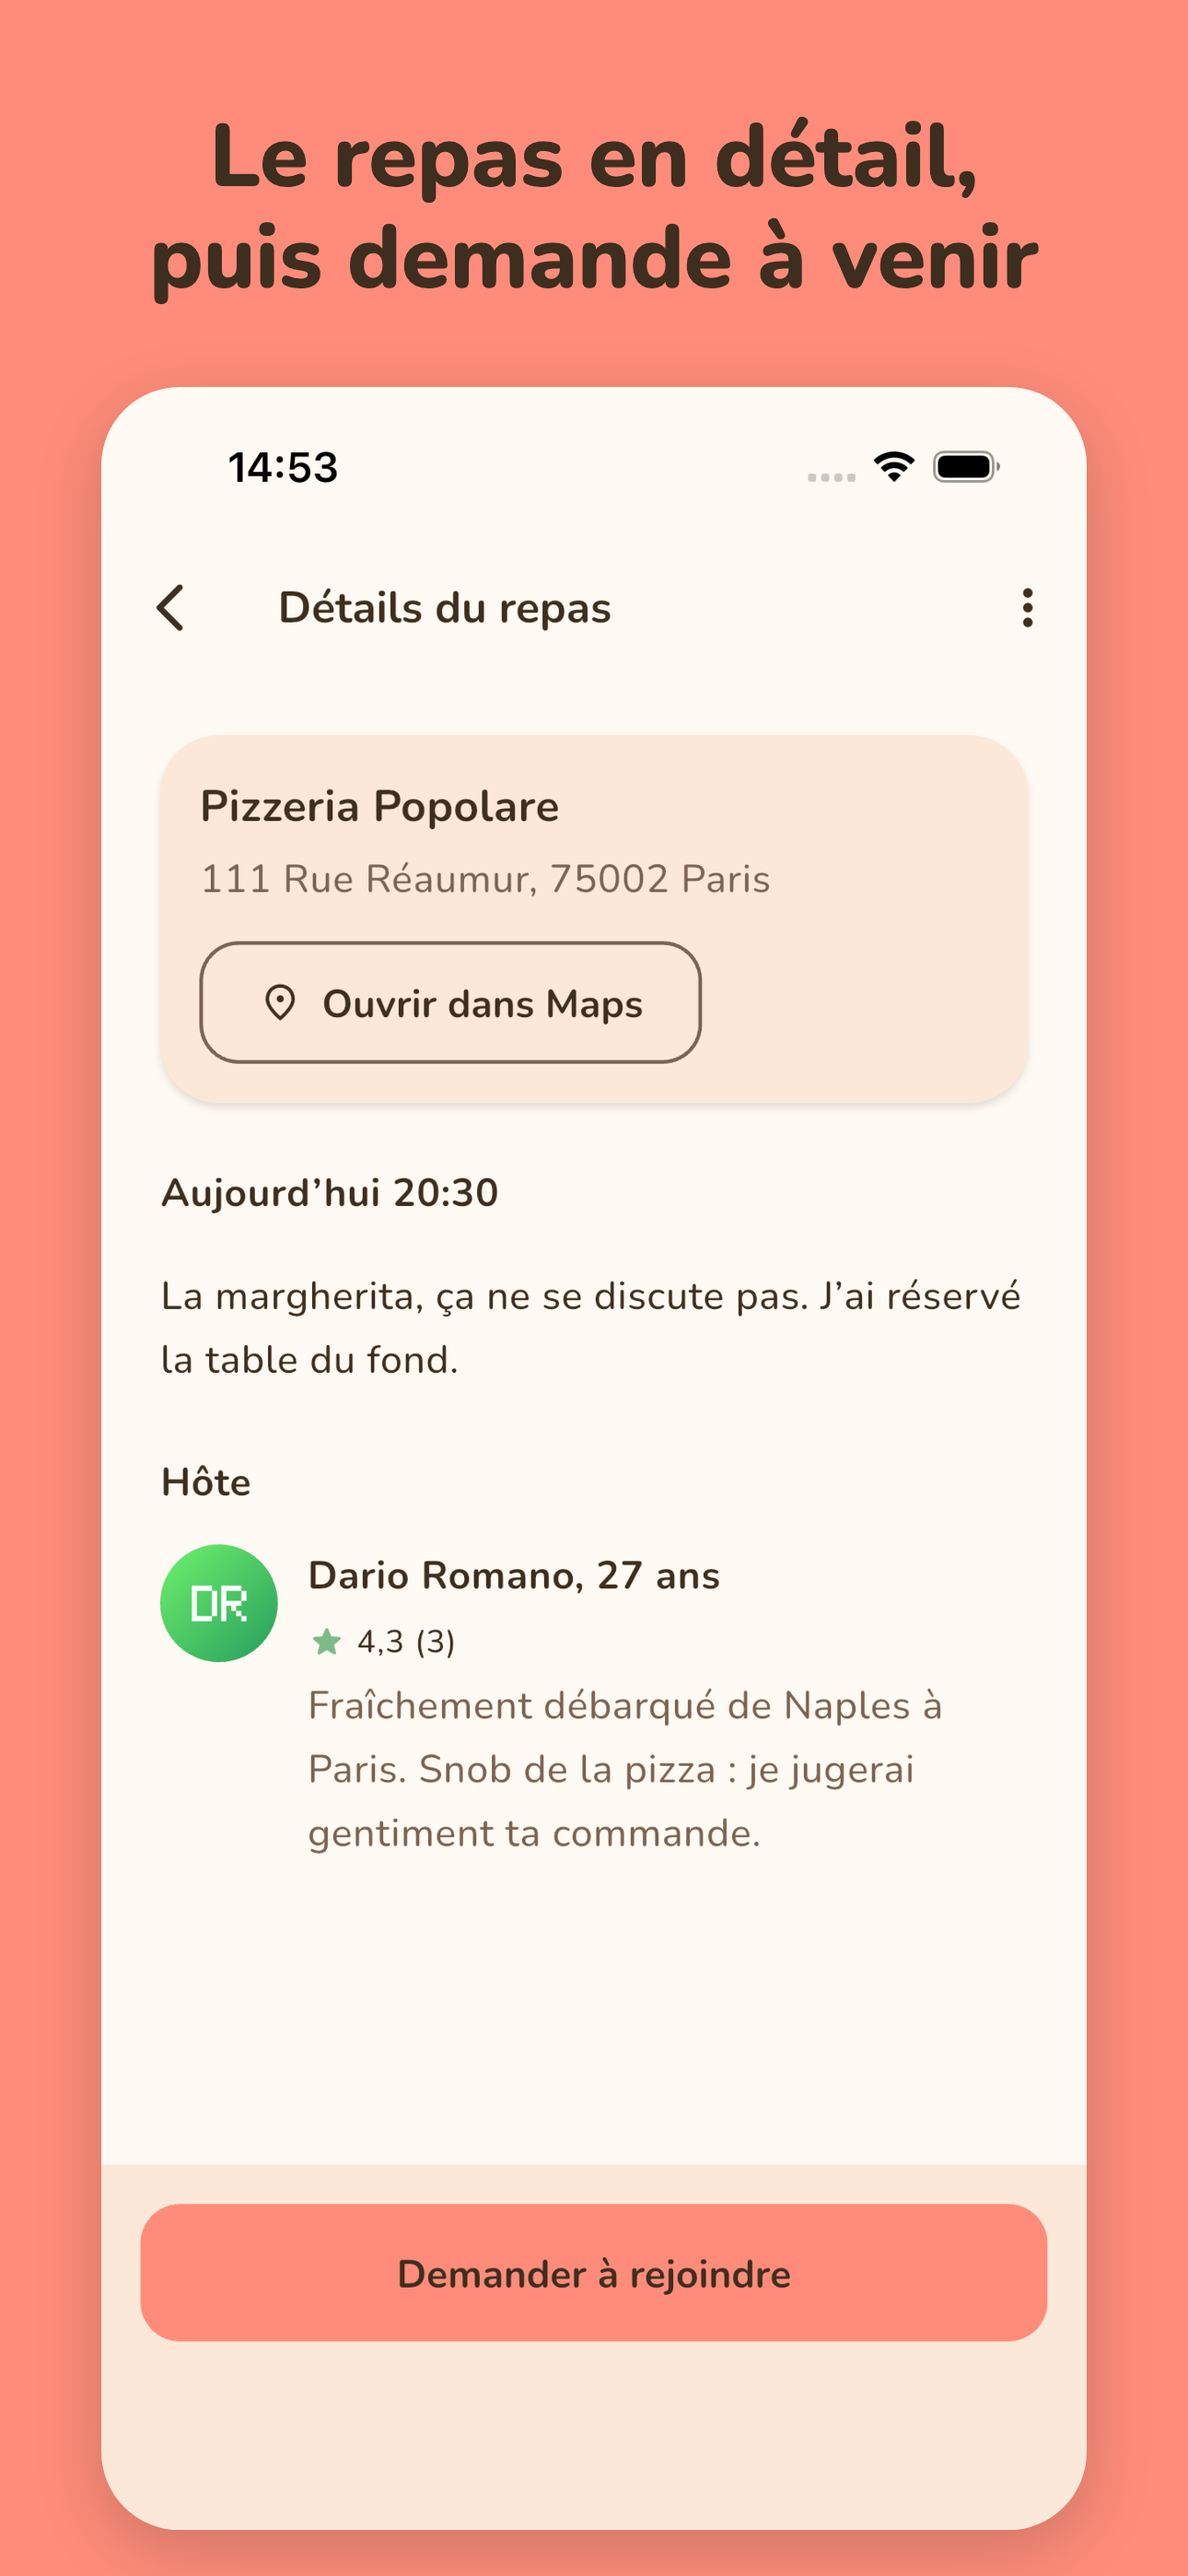
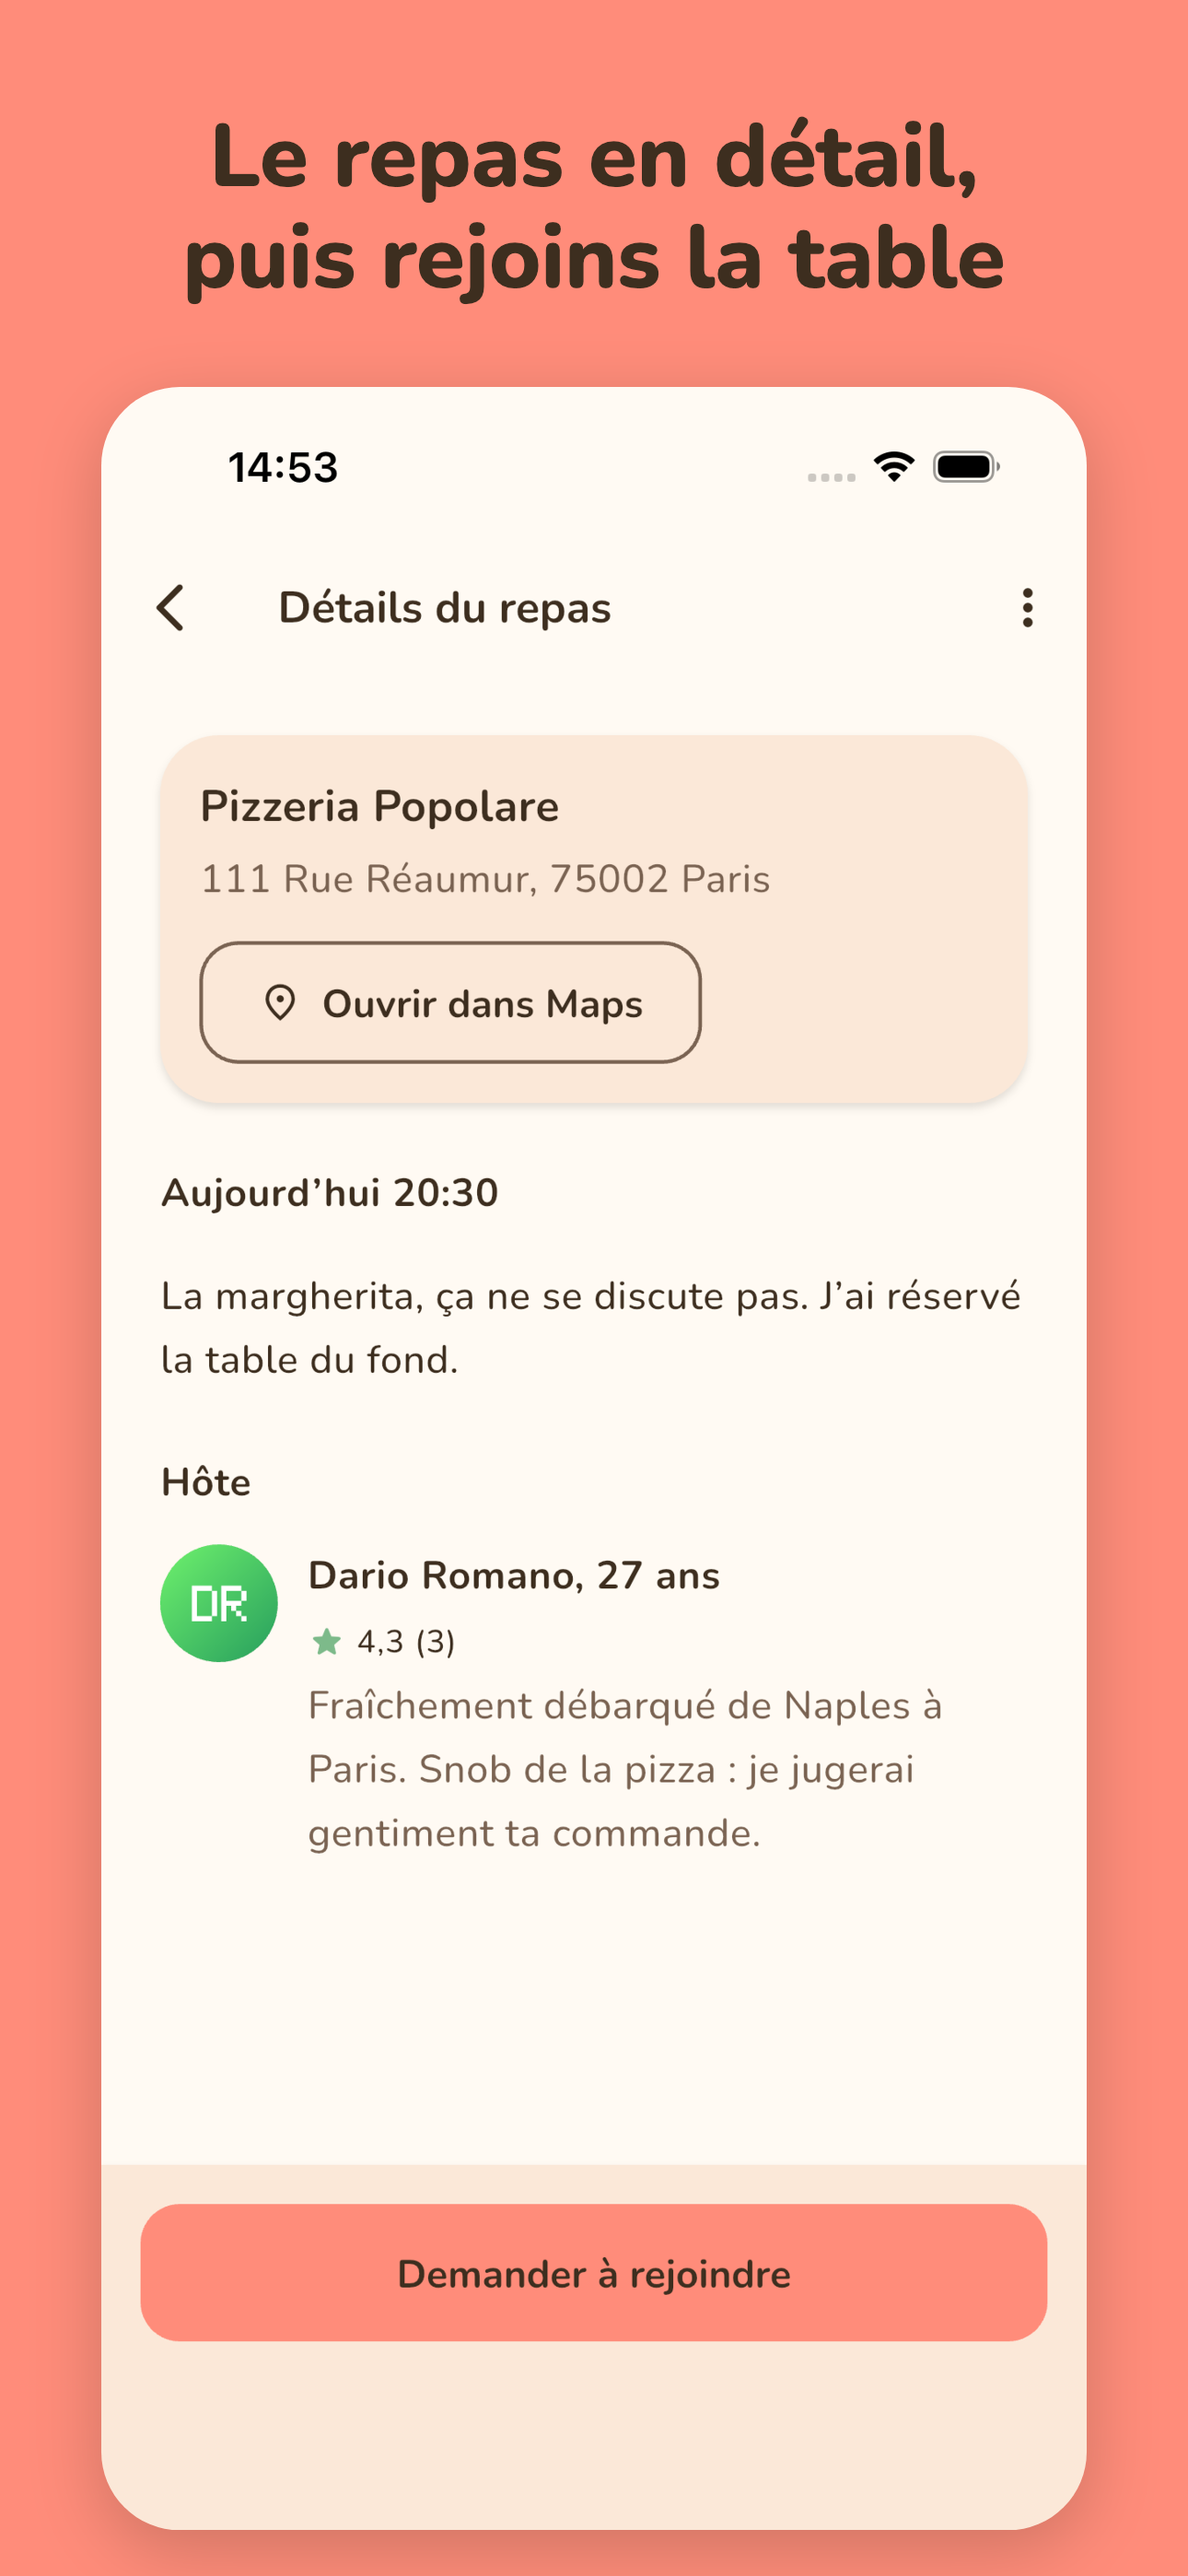
fix(store): French caption fixes, regenerated French screenshots

Changed region(s): [[0.124, 0.0622, 0.8682, 0.1245]]

diff --git a/tool/store_frames/store_frames_test.dart b/tool/store_frames/store_frames_test.dart
@@ -207,12 +207,6 @@ void main() {
               );
               expect(caption.split('\n').length, lessThanOrEqualTo(2));
 
-              // The whole phone stays on the canvas (nothing interactive cut).
-              expect(
-                spec.phoneTop + spec.phoneWidth * 2622 / 1206,
-                lessThanOrEqualTo(spec.height),
-              );
-
               tester.view
                 ..physicalSize = Size(
                   spec.width.toDouble(),
@@ -228,6 +222,11 @@ void main() {
                 final codec = await ui.instantiateImageCodec(bytes);
                 shot = (await codec.getNextFrame()).image;
               });
+              // The whole phone stays on the canvas (nothing interactive cut).
+              expect(
+                spec.phoneTop + spec.phoneWidth * shot.height / shot.width,
+                lessThanOrEqualTo(spec.height),
+              );
               final key = GlobalKey();
               await tester.pumpWidget(
                 RepaintBoundary(

diff --git a/tool/store_frames/captions.dart b/tool/store_frames/captions.dart
@@ -16,9 +16,9 @@ const storeCaptions = <String, List<String>>{
   ],
   'fr': [
     'Trouve un repas\nprès de chez toi',
-    'Le repas en détail,\npuis demande à venir',
+    'Le repas en détail,\npuis rejoins la table',
     'L’hôte choisit\nune seule personne',
-    'Fais connaissance\navant de vous voir',
+    'Discute d’abord,\ndîne ensuite',
     'La sécurité d’abord :\nbloque ou signale',
   ],
 };

diff --git a/docs/store/screenshots/README.md b/docs/store/screenshots/README.md
@@ -5,9 +5,9 @@ Five framed shots per locale (`en`, `fr`), generated from real app captures.
 | # | File | Shows | EN caption | FR caption (draft, needs native review) |
 |---|------|-------|-----------|------|
 | 1 | `01_discover.png` | Discover feed | Find meals near you | Trouve un repas près de chez toi |
-| 2 | `02_meal_detail.png` | Meal detail | See the full meal, then ask to join | Le repas en détail, puis demande à venir |
+| 2 | `02_meal_detail.png` | Meal detail | See the full meal, then ask to join | Le repas en détail, puis rejoins la table |
 | 3 | `03_requests.png` | Requests | Hosts pick one match. No group chaos | L’hôte choisit une seule personne |
-| 4 | `04_chat.png` | Chat | Get to know them before you meet | Fais connaissance avant de vous voir |
+| 4 | `04_chat.png` | Chat | Get to know them before you meet | Discute d’abord, dîne ensuite |
 | 5 | `05_safety.png` | Safety tips sheet | Safety built in: block or report | La sécurité d’abord : bloque ou signale |
 
 Folders (per locale): `ios-6.9/` 1290 x 2796 px (App Store 6.9"),
